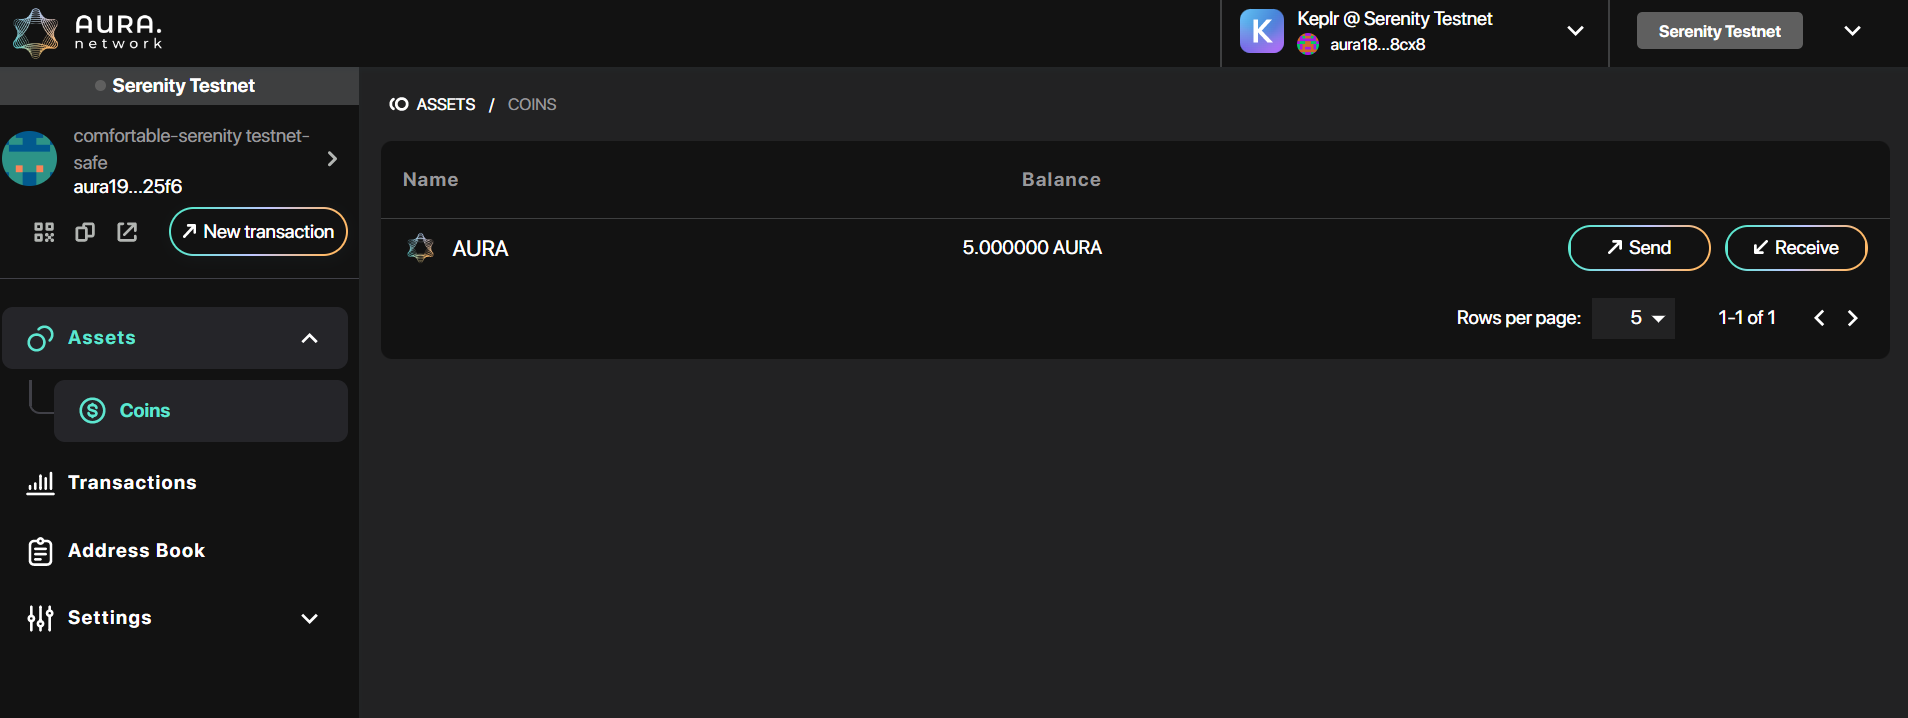
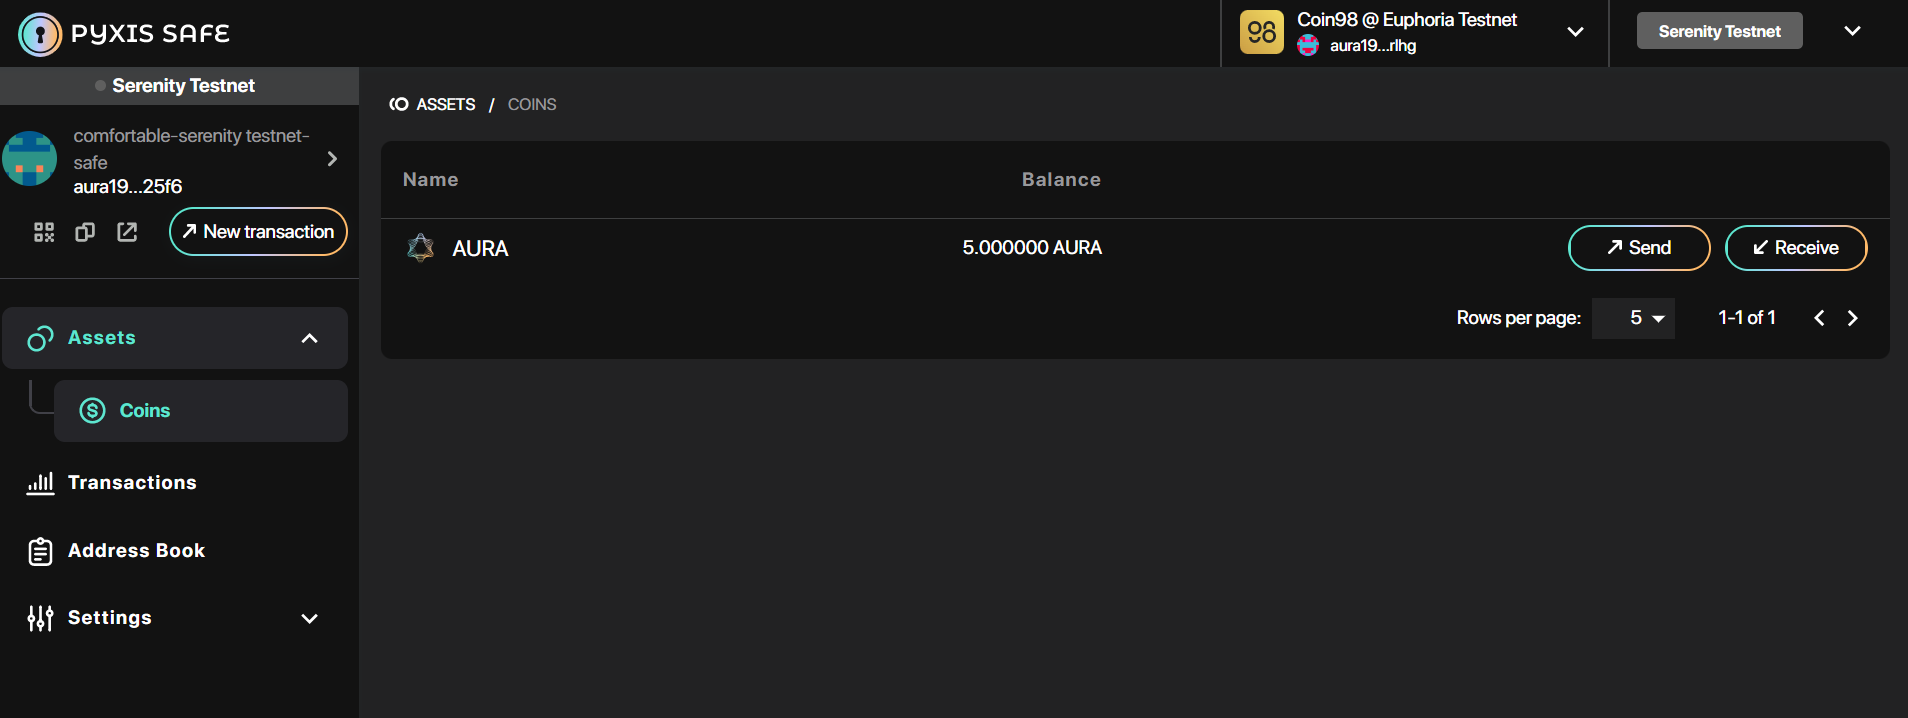
update imgs

Changed region(s): [[0.6494, 0.0, 0.804, 0.0919], [0.0, 0.0, 0.1237, 0.0919]]

diff --git a/docs/product/pyxis-safe/going-further/cancel_safe.md b/docs/product/pyxis-safe/going-further/cancel_safe.md
@@ -9,4 +9,4 @@ Before the safe is active, the safe creator can cancel the request for safe crea
 
 A confirmation screen will be shown to review the safe that is about to be canceled. By clicking “Cancel Safe”, the safe will be removed from the pending safe list of all co-owners.
 
-![Cancel a Safe creation request](/img/pyxis-safe/cancel_safe_1.png)
+![Cancel a Safe creation request](/img/pyxis-safe/cancel_safe_2.png)
